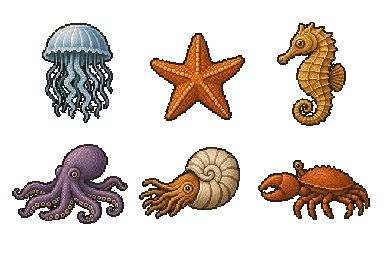
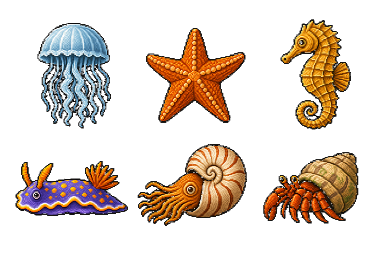
Fish atlas: JSON-driven named layout; expand atlas; WIP art assets
Switch from positional row/col indexing to a named layout map baked from
art/fish-atlas-128.json by gen-fish-atlas.ts. FISH_KINDS now looks up cells by
name rather than by index order, so species can be reordered in the atlas
without breaking the table.

Octopus rests longer between hops. Drop obsolete atlases (care-state,
food-feeding, glass-detail, coral-transparent). Add WIP art files for
behavior markers, microfauna, juvenile fish, tall plants, and seasonal props.

diff --git a/tools/gen-fish-atlas.ts b/tools/gen-fish-atlas.ts
@@ -1,21 +1,35 @@
 // One-off generator: embed art/fish-atlas-128.png as a base64 data URL in
-// src/fishAtlas.ts. Re-run if the source atlas changes. The level/identity table
-// is hand-authored in src/fish.ts, not here — this file only carries the pixels.
+// src/fishAtlas.ts, and bake the sprite layout from art/fish-atlas-128.json.
+// Re-run if the source atlas or JSON changes.
 import { readFileSync, writeFileSync } from "node:fs";
 
-const SRC = "art/fish-atlas-128.png";
-const OUT = "src/fishAtlas.ts";
+const SRC_PNG  = "art/fish-atlas-128.png";
+const SRC_JSON = "art/fish-atlas-128.json";
+const OUT      = "src/fishAtlas.ts";
 
-const b64 = readFileSync(SRC).toString("base64");
+const b64 = readFileSync(SRC_PNG).toString("base64");
+const json = JSON.parse(readFileSync(SRC_JSON, "utf8"));
+
+const cell: number = json.tileSize;
+const cols: number = json.columns;
+const rows: number = json.rows;
+
+const layoutEntries = (json.sprites as { name: string; row: number; col: number }[])
+  .map(s => `  ${s.name}: { row: ${s.row}, col: ${s.col} },`)
+  .join("\n");
+
 const module = `// GENERATED by tools/gen-fish-atlas.ts — do not edit by hand.
-// The fish sprite sheet: a 3x4 grid of 128px cells, one pixel-art fish per cell,
+// The fish sprite sheet: a ${cols}x${rows} grid of ${cell}px cells, one pixel-art fish per cell,
 // every fish facing left. Embedded as a base64 data URL so there is no asset
-// pipeline (same approach as the nautilus atlas). At load, each cell is copied at
-// native resolution and given a baked tail-swish swim cycle (see fish.ts).
+// pipeline. At load, each cell is copied at native resolution and given a baked
+// tail-swish swim cycle (see fish.ts). Layout is derived from art/fish-atlas-128.json.
 export const FISH_ATLAS = "data:image/png;base64,${b64}";
-export const FISH_ATLAS_COLS = 3;
-export const FISH_ATLAS_ROWS = 4;
-export const FISH_ATLAS_CELL = 128;
+export const FISH_ATLAS_CELL = ${cell};
+export const FISH_ATLAS_COLS = ${cols};
+export const FISH_ATLAS_ROWS = ${rows};
+export const FISH_ATLAS_LAYOUT: Record<string, { row: number; col: number }> = {
+${layoutEntries}
+};
 `;
 
 writeFileSync(OUT, module);

diff --git a/src/fish.ts b/src/fish.ts
@@ -2,7 +2,7 @@ import type { KAPLAYCtx } from "kaplay";
 import {
   FISH_ATLAS,
   FISH_ATLAS_CELL,
-  FISH_ATLAS_COLS,
+  FISH_ATLAS_LAYOUT,
 } from "./fishAtlas";
 import { cellBBox, copyRect, shearSheet } from "./fishbake";
 import { RES } from "./res";
@@ -16,23 +16,23 @@ export type FishKind = {
   speed: number; // multiplier on thrust and initial velocity (1.0 = baseline)
 };
 
-// One entry per atlas cell, row-major (see fishAtlas.ts). Every fish faces left.
+// One entry per fish. Names must match FISH_ATLAS_LAYOUT keys (fishAtlas.ts). Every fish faces left.
 // `level` is the species' preferred vertical band as fractions of the swimmable
 // height (0 = surface, 1 = floor), taken from its real-life habitat.
 // `speed` is grounded in real swimming-performance data (body-lengths/sec tiers).
 export const FISH_KINDS: FishKind[] = [
-  { name: "angelfish",      level: { min: 0.10, max: 0.42 }, speed: 0.70 }, // slow  — deep laterally-flat body
-  { name: "rainbow-shark",  level: { min: 0.72, max: 0.97 }, speed: 1.25 }, // fast  — burst charges when territorial
-  { name: "discus",         level: { min: 0.28, max: 0.58 }, speed: 0.60 }, // slow  — nearly sedentary, prefers still water
-  { name: "guppy",          level: { min: 0.02, max: 0.26 }, speed: 0.85 }, // med   — burst-escape specialist, large tail
-  { name: "goldfish",       level: { min: 0.22, max: 0.62 }, speed: 1.15 }, // fast  — sustained cruiser, multiple speed modes
-  { name: "clown-loach",    level: { min: 0.68, max: 0.96 }, speed: 1.00 }, // med   — variable; rest-then-dash rhythm
-  { name: "purple-cichlid", level: { min: 0.52, max: 0.86 }, speed: 1.30 }, // fast  — open-water hunter, uses full tank
-  { name: "cardinal-tetra", level: { min: 0.06, max: 0.34 }, speed: 0.80 }, // slow  — schooling fish, slow-current habitat
-  { name: "yellow-lab",     level: { min: 0.58, max: 0.92 }, speed: 1.00 }, // med   — active forager, typical cichlid pace
-  { name: "striped-barb",   level: { min: 0.44, max: 0.76 }, speed: 1.35 }, // fast  — energetic darter, rapid direction changes
-  { name: "congo-tetra",    level: { min: 0.20, max: 0.52 }, speed: 1.20 }, // fast  — strong swimmer, adapted to fast currents
-  { name: "koi",            level: { min: 0.02, max: 0.28 }, speed: 1.40 }, // fast  — largest body, powerful burst-and-coast
+  { name: "angelfish",              level: { min: 0.10, max: 0.42 }, speed: 0.70 }, // slow  — deep laterally-flat body
+  { name: "red_tailed_black_shark", level: { min: 0.72, max: 0.97 }, speed: 1.25 }, // fast  — burst charges when territorial
+  { name: "discus",                 level: { min: 0.28, max: 0.58 }, speed: 0.60 }, // slow  — nearly sedentary, prefers still water
+  { name: "guppy",                  level: { min: 0.02, max: 0.26 }, speed: 0.85 }, // med   — burst-escape specialist, large tail
+  { name: "goldfish",               level: { min: 0.22, max: 0.62 }, speed: 1.15 }, // fast  — sustained cruiser, multiple speed modes
+  { name: "tiger_barb",             level: { min: 0.68, max: 0.96 }, speed: 1.00 }, // med   — variable; rest-then-dash rhythm
+  { name: "lionhead_cichlid",       level: { min: 0.52, max: 0.86 }, speed: 1.30 }, // fast  — open-water hunter, uses full tank
+  { name: "neon_tetra",             level: { min: 0.06, max: 0.34 }, speed: 0.80 }, // slow  — schooling fish, slow-current habitat
+  { name: "labidochromis_caeruleus",level: { min: 0.58, max: 0.92 }, speed: 1.00 }, // med   — active forager, typical cichlid pace
+  { name: "royal_pleco",            level: { min: 0.44, max: 0.76 }, speed: 1.35 }, // fast  — energetic darter, rapid direction changes
+  { name: "gourami",                level: { min: 0.20, max: 0.52 }, speed: 1.20 }, // fast  — strong swimmer, adapted to fast currents
+  { name: "koi",                    level: { min: 0.02, max: 0.28 }, speed: 1.40 }, // fast  — largest body, powerful burst-and-coast
 ];
 
 // Bake one swim sheet per fish: copy each atlas cell's tight crop at native
@@ -55,9 +55,8 @@ export async function makeFishSheets(): Promise<string[]> {
     sctx.getImageData(0, 0, img.width, img.height).data.buffer,
   );
 
-  return FISH_KINDS.map((_, i) => {
-    const col = i % FISH_ATLAS_COLS;
-    const row = Math.floor(i / FISH_ATLAS_COLS);
+  return FISH_KINDS.map((kind) => {
+    const { row, col } = FISH_ATLAS_LAYOUT[kind.name];
     const bb = cellBBox(full, img.width, col * cell, row * cell, cell);
     const fish = copyRect(full, img.width, bb.x, bb.y, bb.bw, bb.bh);
     return bufToDataURL(shearSheet(fish));

diff --git a/tools/preview.ts b/tools/preview.ts
@@ -7,7 +7,7 @@ import { jellyTentacleSheet, JELLYFISH_FRAMES } from "../src/cephalopod";
 import {
   FISH_ATLAS,
   FISH_ATLAS_CELL,
-  FISH_ATLAS_COLS,
+  FISH_ATLAS_LAYOUT,
 } from "../src/fishAtlas";
 import {
   SEA_CREATURES_ATLAS,
@@ -198,9 +198,7 @@ function renderFishGrid() {
     : FISH_KINDS;
 
   const sheets = kinds.map((k) => {
-    const i = FISH_KINDS.indexOf(k);
-    const col = i % FISH_ATLAS_COLS;
-    const row = Math.floor(i / FISH_ATLAS_COLS);
+    const { row, col } = FISH_ATLAS_LAYOUT[k.name];
     const bb = cellBBox(atlas.rgba, atlas.w, col * cell, row * cell, cell);
     return shearSheet(copyRect(atlas.rgba, atlas.w, bb.x, bb.y, bb.bw, bb.bh));
   });

diff --git a/src/cephalopod.ts b/src/cephalopod.ts
@@ -257,7 +257,7 @@ const KINDS: Record<string, KindCfg> = {
     crawl: {
       speed: 16 * S, // slow omnidirectional drift
       hop: 200 * S, // hops a moderate distance, then parks and rests
-      rest: { secs: [3, 8], longSecs: [12, 60], longChance: 0.3 },
+      rest: { secs: [5, 20], longSecs: [20, 80], longChance: 0.3 },
       swimEvery: [6, 12], // occasionally push off for a swim
       gather: 0.16, // bunch up
       thrust: 0.12, // power-stroke hold